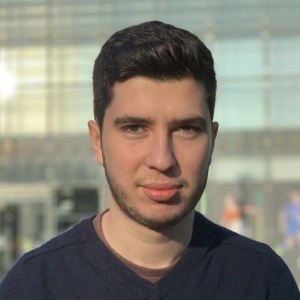
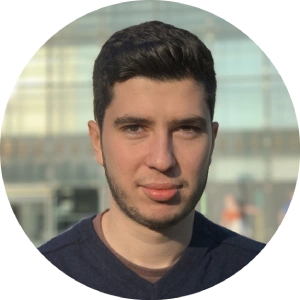
Cut photo size and specify heigh and width

diff --git a/components/About.tsx b/components/About.tsx
@@ -5,7 +5,9 @@ const About = forwardRef<HTMLDivElement>((undefined, ref) => {
     <section ref={ref}>
       <h2>About Me</h2>
       <img
-        className="w-40 my-4 self-center border rounded-full border-solid border-state-50"
+        height="160"
+        width="160"
+        className="my-4 self-center border rounded-full border-solid border-state-50"
         src="/profile.webp"
         alt="Petar Stanev profile photo"
       />
